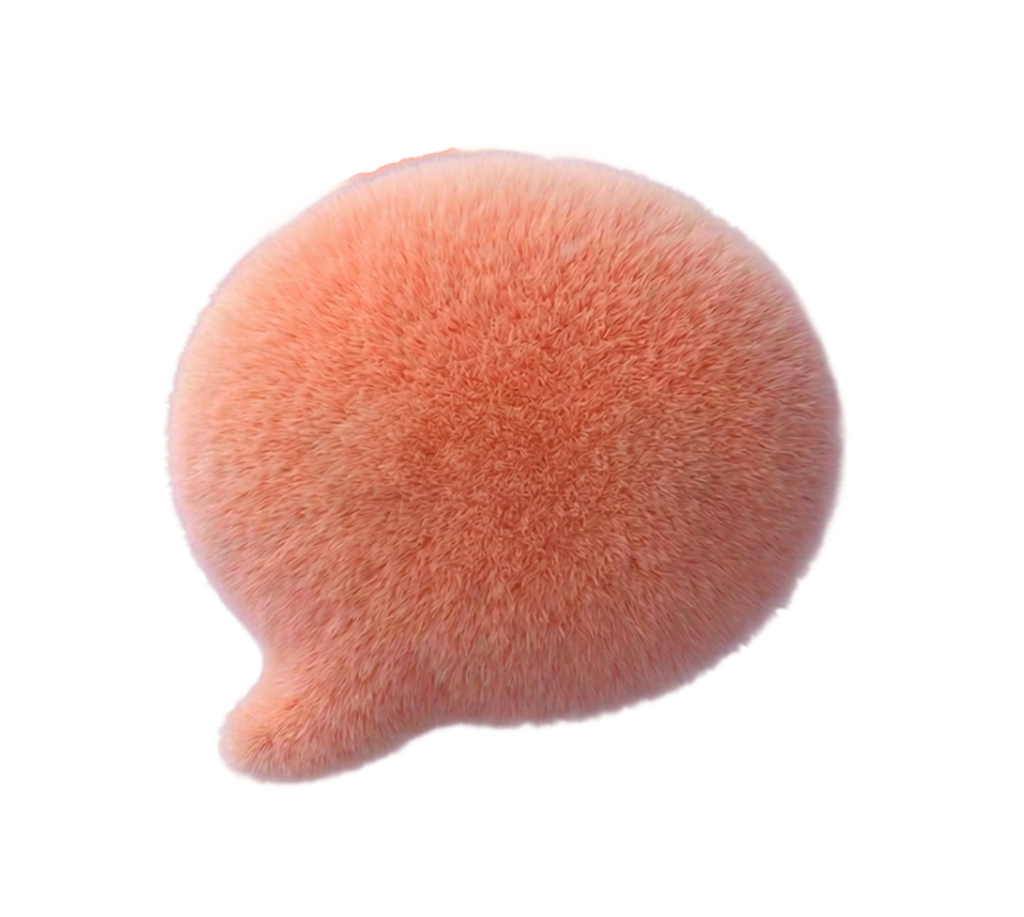
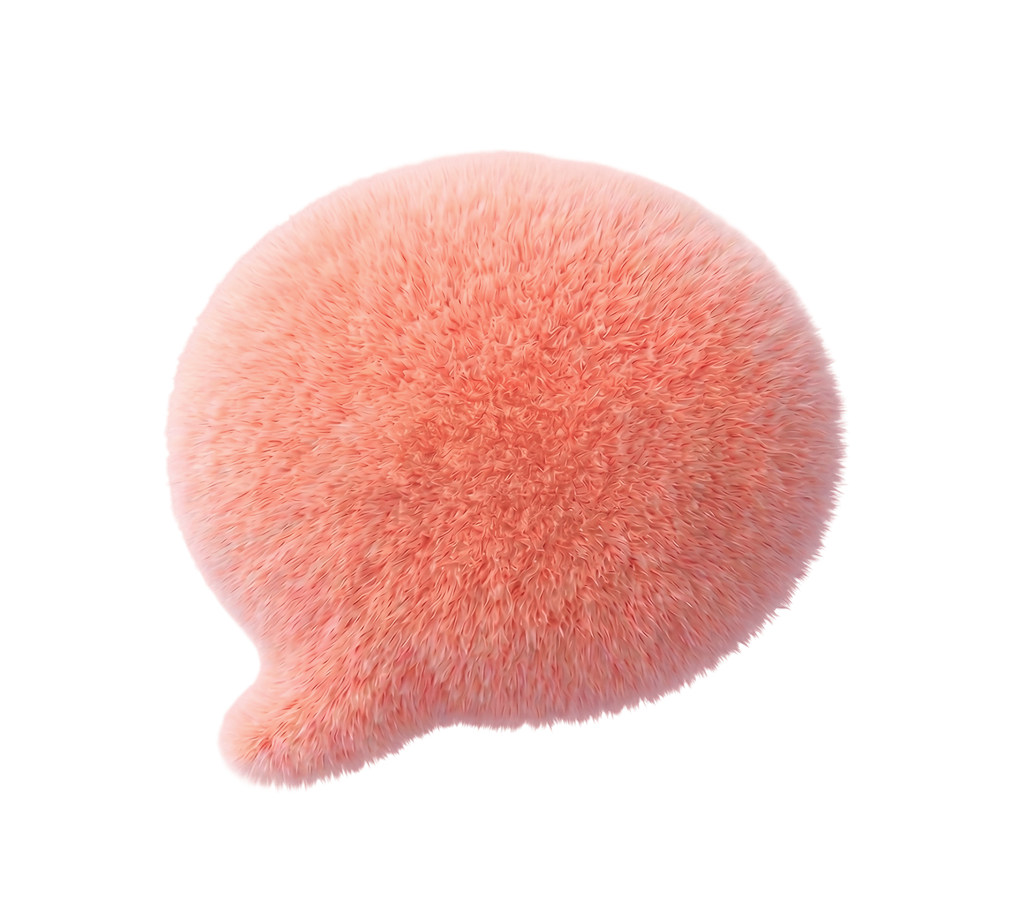
Add files via upload

Changed region(s): [[0.1875, 0.1527, 0.8438, 0.855]]

diff --git a/index.html b/index.html
@@ -1033,9 +1033,10 @@
     /* Shrink feature cards vertically on mobile */
     .feature-card {
       padding: 22px 22px 0 !important;
+      grid-template-rows: auto 1fr !important;
     }
-    .feature-card .feature-name { font-size: 26px !important; margin-bottom: 4px !important; line-height: 1.05 !important; }
-    .feature-card .feature-desc { font-size: 15px !important; line-height: 1.45 !important; padding-bottom: 20px !important; align-self: start !important; }
+    .feature-card .feature-name { font-size: 26px !important; margin-bottom: 4px !important; line-height: 1.05 !important; align-self: start !important; }
+    .feature-card .feature-desc { font-size: 15px !important; line-height: 1.45 !important; padding-bottom: 20px !important; align-self: end !important; }
     .feature-card .feature-img { margin: -22px -22px 0 8px !important; transform: scale(1.15) !important; }
     /* Reset Private & Safe desktop overrides on mobile — match other cards */
     .feature-card:nth-child(3) {